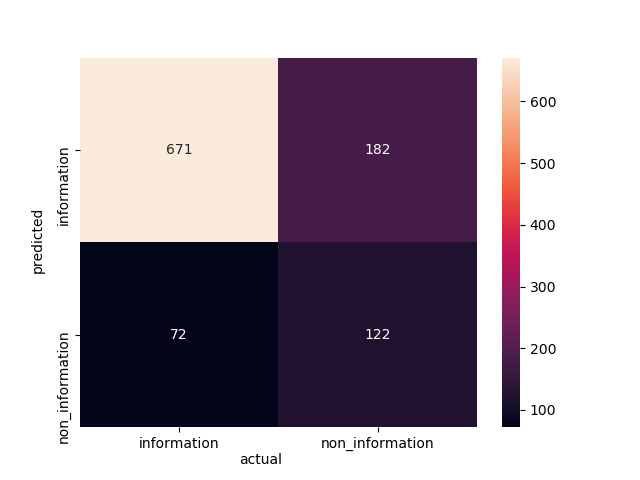
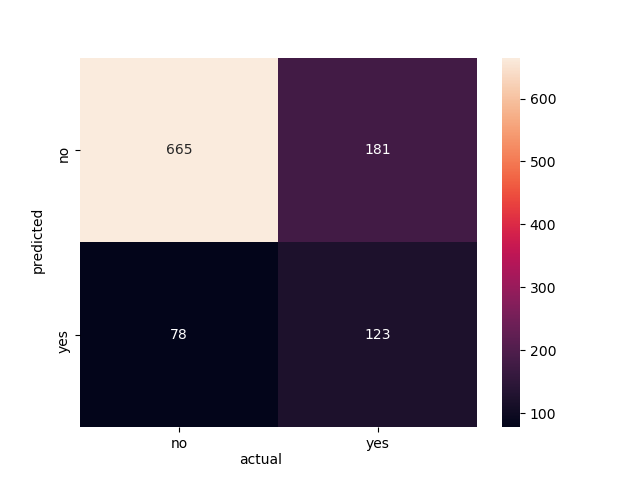
add precision recall for both classes

diff --git a/src/classifier.py b/src/classifier.py
@@ -13,8 +13,24 @@ from src.plot_utils import saveHeatmap
 import time
 
 # TODO : add precision-recall curve and ROC ---> FOR FUN
+# TODO : create object stats
 metrics = [accuracy_score, average_precision_score, recall_score, precision_score, f1_score]
 metric_names = [x.__name__ for x in metrics]
+
+
+def custom_metrics(cm):
+    precision_no = str(round(cm[0][0] / (cm[0][0] + cm[0][1]), 2))
+    recall_no = str(round(cm[0][0] / (cm[0][0] + cm[1][0]), 2))
+    precision_yes = str(round(cm[1][1] / (cm[1][1] + cm[1][0]), 2))
+    recall_yes = str(round(cm[1][1] / (cm[1][1] + cm[0][1]), 2))
+    c_metrics = []
+    c_metrics.extend([(precision_no, 'precision_no'), (recall_no, 'recall_no'),
+                      (precision_yes, 'precision_yes'), (recall_yes, 'recall_yes')])
+    return c_metrics
+
+
+def custom_metrics_names():
+    return ['precision_no',  'recall_no', 'precision_yes', 'recall_yes']
 
 
 def classify(classifiers=None):
@@ -24,6 +40,8 @@ def classify(classifiers=None):
     labels = labelparser()  # the labels, or answers, we want to test against
 
     tfidf_vector = TfidfVectorizer(tokenizer=spacy_tokenizer)
+    for i in custom_metrics_names():
+        metric_names.append(i)
     stats = {key_classifier: [i.__name__ for i in classifiers], key_metric: metric_names[:]}
 
     for i in classifiers:
@@ -40,7 +58,9 @@ def classify(classifiers=None):
         stats[i.__name__] = []
         for metric in metrics:
             stats[i.__name__].append(str(round(metric(result, labels), 2)))
-
+        other_metrics = custom_metrics(cm)
+        for metric in other_metrics:
+            stats[i.__name__].append(metric[0])
     return stats
 
 
